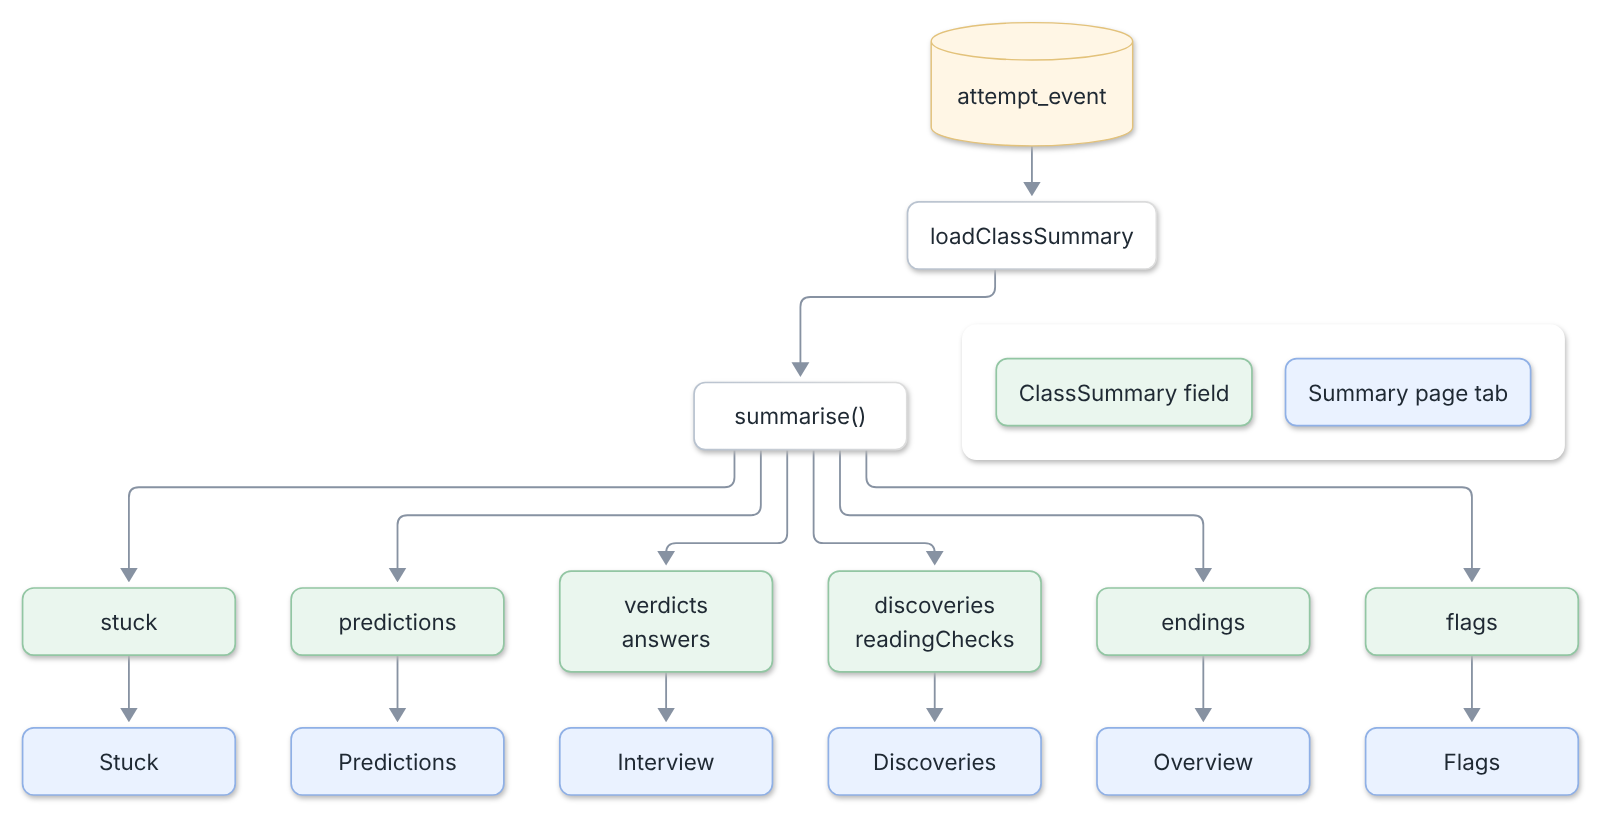
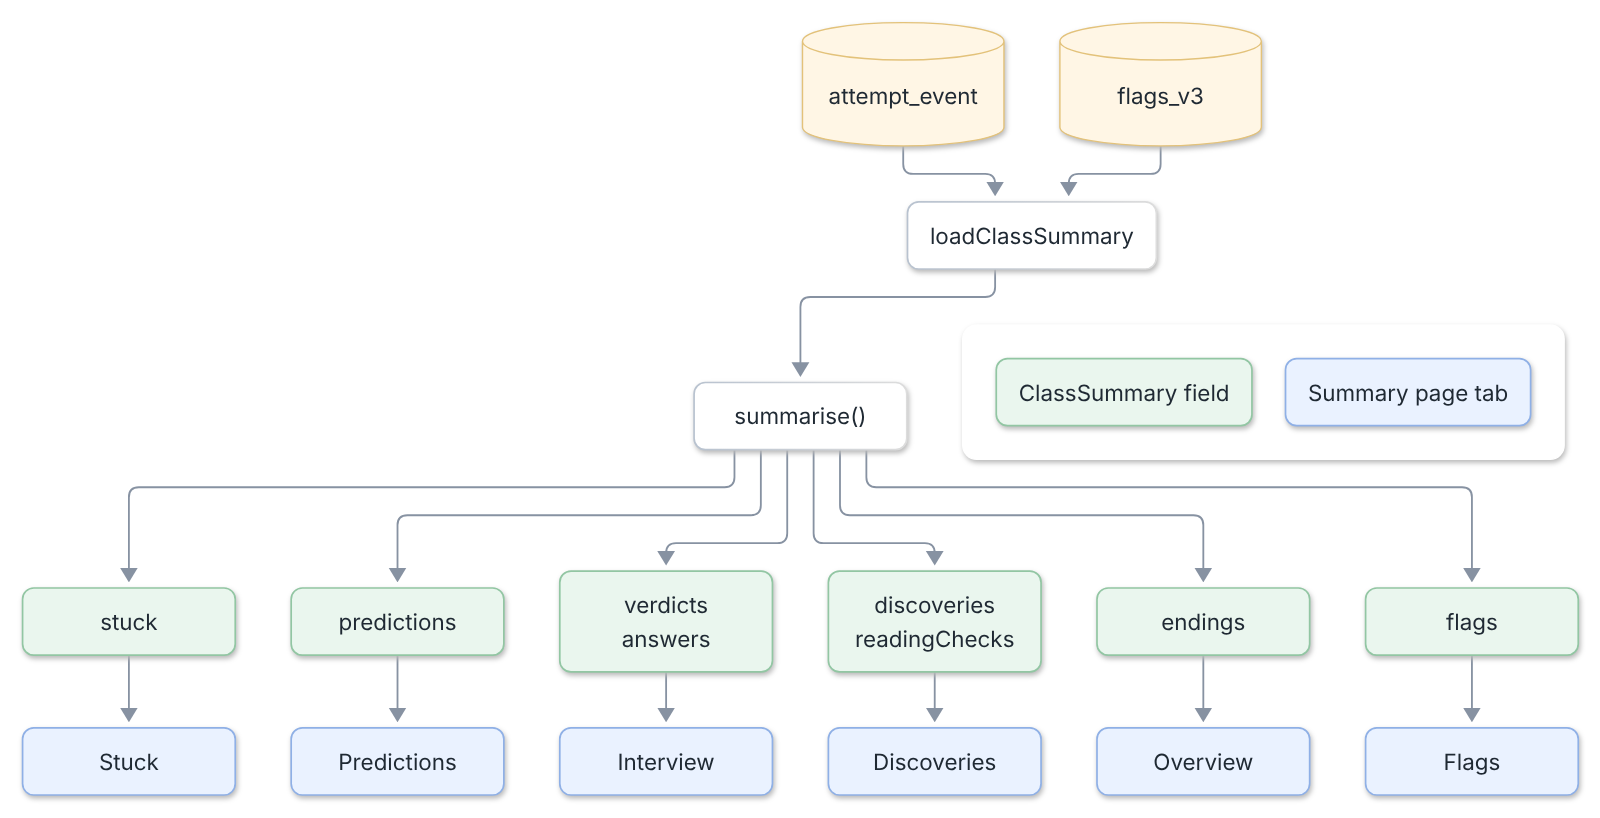
docs: update D1, D3, D5 and notes for Decisions post-turn check and severity flags (PR #397)

Changed region(s): [[0.5, 0.0, 0.8125, 0.2139], [0.5938, 0.2139, 0.6875, 0.2445]]

diff --git a/docs/diagrams/NOTES.md b/docs/diagrams/NOTES.md
@@ -15,10 +15,11 @@ Explanations for the nodes in each diagram, for use as captions or body text nex
 | generation | `packages/generation`. LLM generation passes, asset generation and the `DecisionClient` used for review-chat targeting. |
 | jobs | `packages/jobs`. Job queue stored in Postgres. |
 | engine | `packages/engine`. Pure rules engine: `step()` for play, `summarise()` for class summaries. The LLM is injected, never imported. |
+| orchestration | `packages/orchestration`. The play-time LLM client (`createOpenAiClient`, with `complete` and `decide`) and the post-turn check `checkExchange`. |
 | spec-v3, play-contract | Shared contracts: the adventure schema and checks (`spec-v3`), and the `Action`, `GameEvent` and `PlayerView` types used by the server and client (`play-contract`). |
 | game-core, game-client | Map compiler and the Phaser map bundled into the student client. |
 | LLM providers | External text, image and web-search models. |
-| OpenAI Decisions API | External scoring service used to locate the fields a teacher wants to edit (model `gpt-6-luna`). |
+| OpenAI Decisions API | External service that answers yes/no questions as probabilities (model `gpt-6-luna`). Used to locate the fields a teacher wants to edit, and for the post-turn check during play. |
 | Asset bucket | S3-compatible storage for generated portraits and stage art. |
 | Postgres | Application data, the job queue and each attempt's event log. |
 | Supabase Auth | Sign-in for teachers and students via Google OAuth. |
@@ -108,11 +109,13 @@ Source: `apps/web/src/lib/play/v3/service.ts`; post-turn work is started with Ne
 | save | Saves state and appends events, guarded by the revision. |
 | view, pendingCheckIds | The response returns at once; the client shows the reply. |
 | after the response | `runPostTurnChecks` runs the queued checks after the response is sent. |
-| post-turn check | `runPostTurnCheck`: one cheap structured LLM call. |
-| findings | Discoveries the character conveyed, claims the student challenged, and a moderation flag. |
+| post-turn check (Decisions) | `runPostTurnCheck` calls `checkExchange` (`packages/orchestration/src/v3/check.ts`), which sends one `v3_post_turn_check` request to the Decisions API. It asks one question per revealable fact (`conveyed_<i>`), plus `substantive`, `asserted`, and one per moderation category: abusive, threat, hateful, provocative, sexual, self-harm. |
+| probabilities | Each answer is a probability; 0.5 or above counts as yes (`CHECK_DECISION_THRESHOLD`), and a missing answer counts as no. If several moderation categories fire, the most severe wins, with ties broken by the higher probability. |
+| post-turn check (fallback) | If the client has no `decide`, the Decisions call fails, or the request would exceed 400 questions, the check falls back to one cheap structured LLM completion. `CheckOutcome.via` records which path ran. |
+| findings | Discoveries the character conveyed, claims the student challenged, and a moderation flag with its category. |
 | step(postTurn) | Applies the findings through the engine as an internal `postTurn` action. |
 | events | Discovery, challenge and flag events. |
-| save | Saves events and flags, revision-guarded, with up to three tries. |
+| save events, flags | Appends the events and writes each flagged message to `flags_v3` (excerpt, character, stage), revision-guarded, with up to three tries. |
 | refresh | While a check is pending the client re-fetches the attempt with backoff to pick up new notes. |
 
 ## D4 · engine.step (`d4-engine-step`)
@@ -141,13 +144,14 @@ Sources: `packages/engine/src/summary/index.ts`, `apps/web/src/lib/play/v3/summa
 
 | Node | Notes |
 | --- | --- |
+| flags_v3 | Postgres table holding the text of each flagged message, with its category, character and stage. |
 | attempt_event | Postgres log of each attempt's `GameEvent`s: discovery, stanceChange, challenge, act, outcome, prediction, verdict, hint, storyEvent, flag, phase, readingCheck. |
-| loadClassSummary | Picks the published version, loads its pinned spec and the class's attempt events, then adds student names to flags. |
+| loadClassSummary | Picks the published version, loads its pinned spec and the class's attempt events, then adds student names to flags. For flagged attempts it reads their `flags_v3` rows (`V3PlayStore.listFlags`) and attaches the flagged messages. |
 | summarise() | `summarise(spec, attempts)`: a pure function that counts each attempt once and returns a `ClassSummary`. |
 | stuck | Where students got stuck: stage and the discovery they were missing. |
 | predictions | How predictions split at each defining moment (last prediction per attempt). |
 | verdicts, answers | Interview verdicts before and after push-back (`changedAfterPushBack`) and a seeded sample of anonymised answers. |
 | discoveries, readingChecks | Discoveries found or missed, grouped by the character who holds them, and reading-check results per document. |
 | endings | How many attempts reached each ending. |
-| flags | Attempts flagged by moderation. |
-| Overview, Stuck, Predictions, Interview, Discoveries, Flags | Tabs on the teacher summary page. Overview also shows attempt and completion counts; Flags lists flagged attempts with student names. |
+| flags | Attempts flagged by moderation. Each flag's severity follows from its category (`FLAG_SEVERITY` in `packages/play-contract/src/flag.ts`): self-harm and threat are urgent; hateful, sexual and abusive are serious; provocative is for review. |
+| Overview, Stuck, Predictions, Interview, Discoveries, Flags | Tabs on the teacher summary page. Overview also shows attempt and completion counts; Overview counts urgent flags. Flags lists flagged students, ordered by their most severe flag and then by flag count, each with a severity badge; each one expands to show the flagged messages (severity, category, character, stage and text), and urgent students start expanded. |
